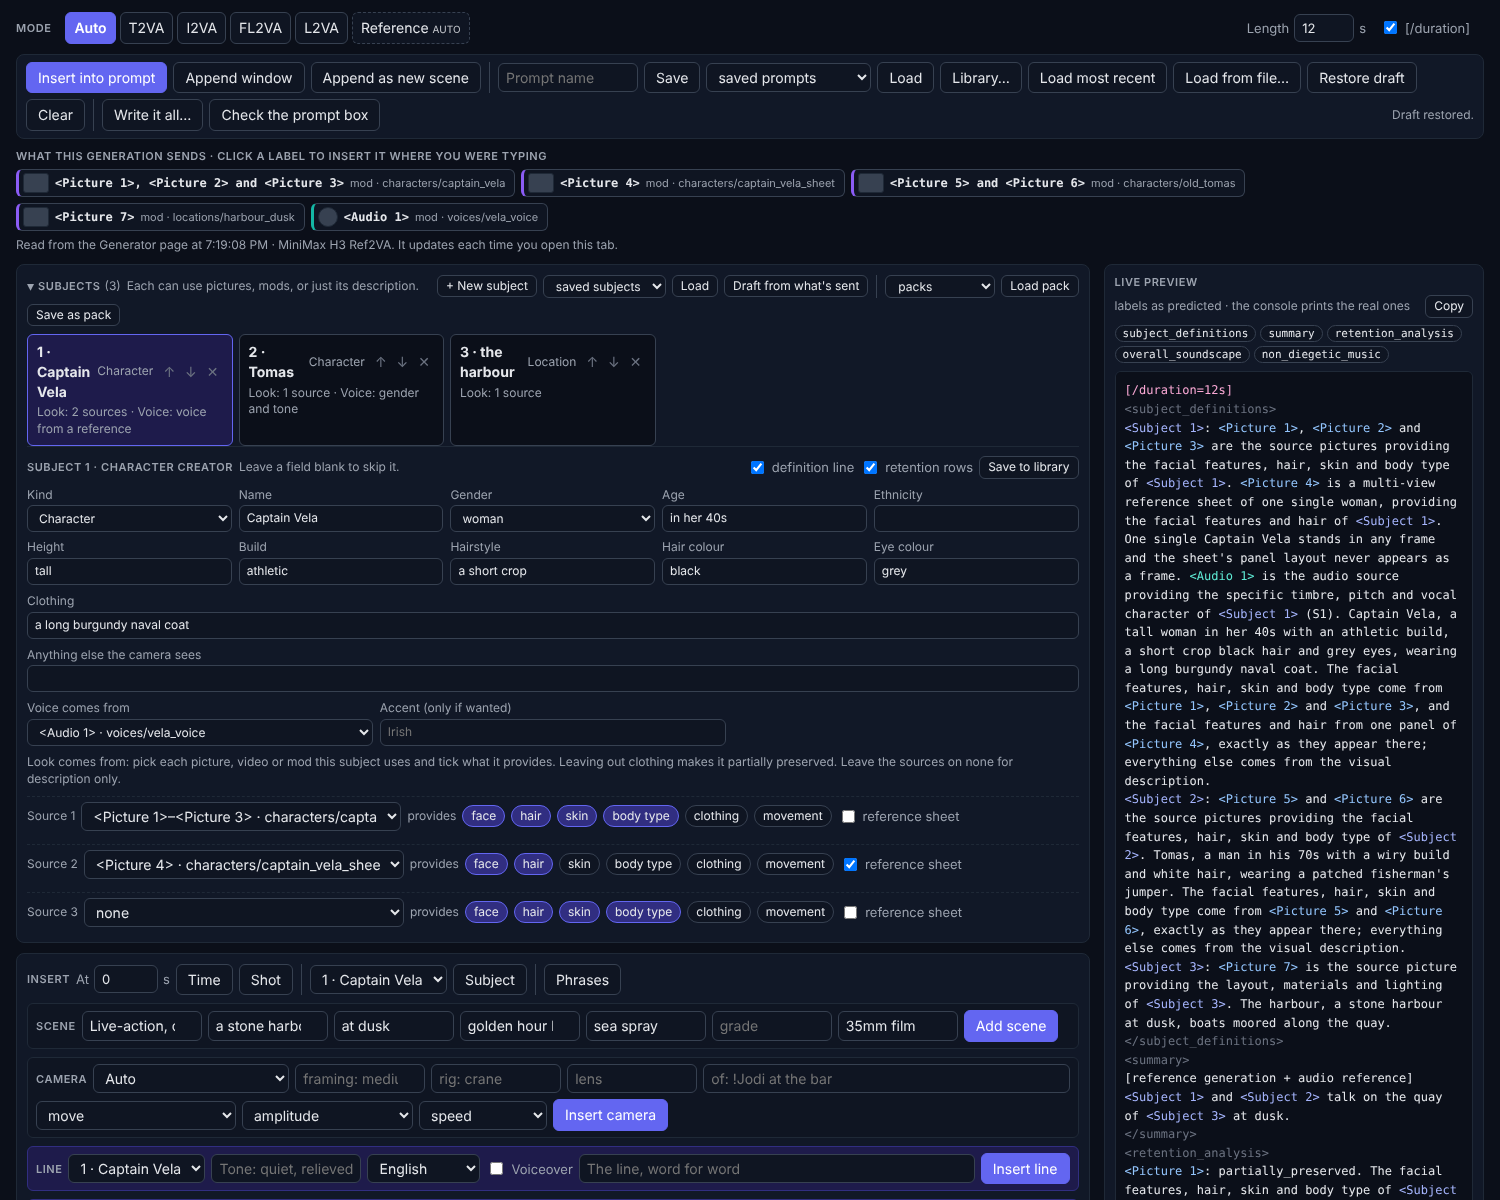
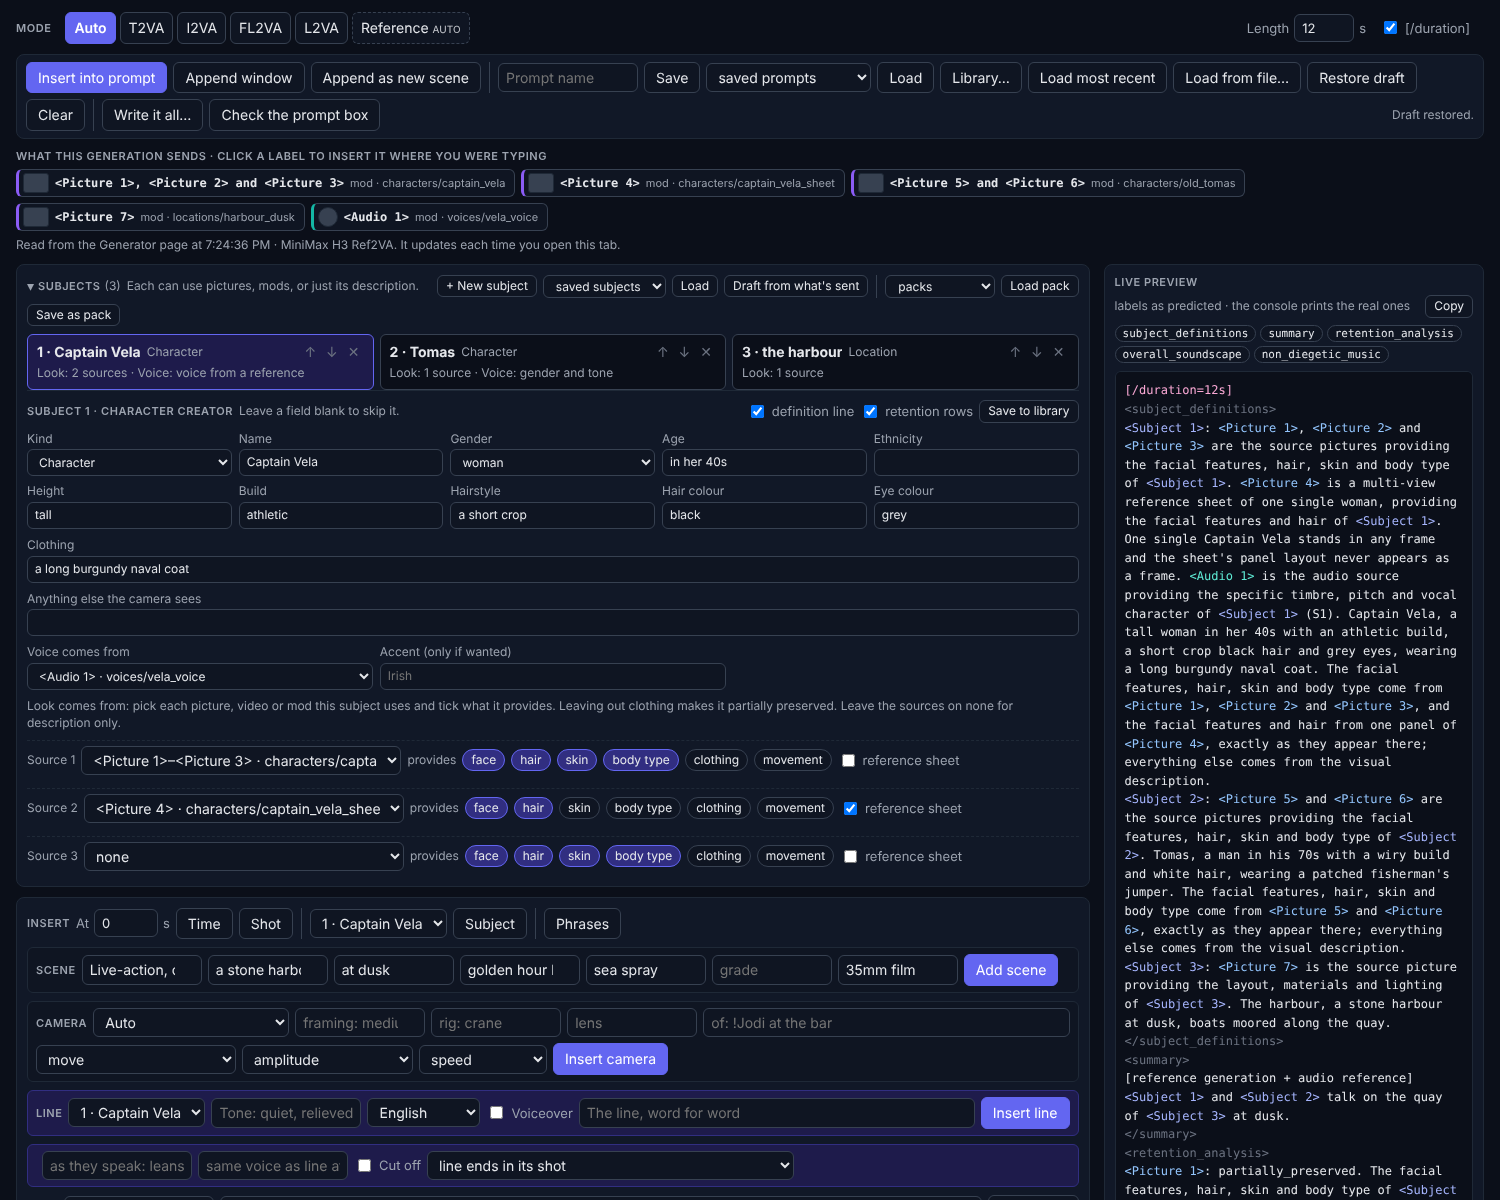
Subject cards widen into the free space, up to 420px
Claude-Session: https://claude.ai/code/session_0123KGgU9tU2XdRroz7wWTxy

Changed region(s): [[0.0, 0.2775, 0.736, 1.0], [0.1533, 0.185, 0.3987, 0.2158], [0.46, 0.8017, 0.6133, 0.8633]]

diff --git a/builder/web/builder.css b/builder/web/builder.css
@@ -53,10 +53,16 @@ textarea:focus, input:focus, select:focus { outline: 2px solid var(--accent); ou
 .sticky > * { flex-shrink: 0; }
 .sticky > .preview { flex: 1 1 auto; min-height: 120px; overflow: auto; }
 .sticky > .checks { max-height: 34vh; overflow: auto; }
-.subject-grid { display: grid; grid-template-columns: repeat(auto-fill, minmax(190px, 1fr)); gap: 6px; }
+/* Cards share the row and grow into the free space, up to 420px each, so one card stays card-sized and several
+   spread out; more wrap onto new rows once a card would drop under 240px. */
+.subject-grid { display: flex; flex-wrap: wrap; gap: 6px; }
+.subject-grid > .scard { flex: 1 1 240px; max-width: 420px; min-width: 0; }
+.subject-grid > .empty { flex: 1 1 100%; }
 .scard { text-align: left; background: var(--bg); border: 1px solid var(--line2); border-radius: 6px; padding: 7px 9px; display: flex; flex-direction: column; gap: 3px; white-space: normal; }
 .scard.on { background: var(--sel); border-color: var(--accent); }
-.scard .top { display: flex; gap: 6px; align-items: center; }
+.scard .top { display: flex; gap: 6px; align-items: center; min-width: 0; }
+.scard .top strong { min-width: 0; overflow: hidden; text-overflow: ellipsis; white-space: nowrap; }
+.scard .top .muted { white-space: nowrap; }
 .scard .tools { margin-left: auto; display: inline-flex; gap: 2px; }
 .scard .tools span { padding: 0 4px; color: var(--faint); cursor: pointer; } .scard .tools span:hover { color: var(--text); }
 .scard .sub { font-size: 12px; color: var(--muted); }

diff --git a/builder/web/builder.js b/builder/web/builder.js
@@ -204,7 +204,7 @@
         const look = looks ? `${looks} source${looks > 1 ? "s" : ""}` : "description only";
         const voice = s.voice ? "voice from a reference" : "gender and tone";
         return `<div class="scard${i === S.selected ? " on" : ""}" data-card="${i}" role="button" tabindex="0">
-          <div class="top"><strong>${n} · ${esc(subjectName(s, n))}</strong><span class="muted small">${esc(s.kind)}</span>
+          <div class="top"><strong title="${esc(subjectName(s, n))}">${n} · ${esc(subjectName(s, n))}</strong><span class="muted small">${esc(s.kind)}</span>
           <span class="tools"><span data-move="${i}:-1" title="Move up">↑</span><span data-move="${i}:1" title="Move down">↓</span><span data-remove="${i}" title="Remove">✕</span></span></div>
           <div class="sub">Look: ${look}${(s.kind || "Character") === "Character" ? " · Voice: " + voice : ""}</div></div>`;
       }).join("");

diff --git a/CHANGELOG.md b/CHANGELOG.md
@@ -15,6 +15,8 @@ tab with a full-screen mode. The entries below are the changes on the way here.
 - In full screen, each page's switch lists the subtabs that exist, Settings included.
 - Without Refmods, the Prompt Builder hides its pack buttons.
 - The README has screenshots, made with invented mods and placeholder pictures.
+- The Prompt Builder's subject cards share the row and widen into the free space (up to a card's width, so one
+  subject doesn't stretch across the page); long names are cut short instead of wrapping.
 - An age typed in full ("in her 40s") no longer comes out as "in her in her 40s".
 - **Flux mods have previews.** New Flux mods (including ones converted from H3) store a small JPEG of each source
   picture, so the Library shows them like an H3 mod's frames. Loaders read only the latent, so the files still work
